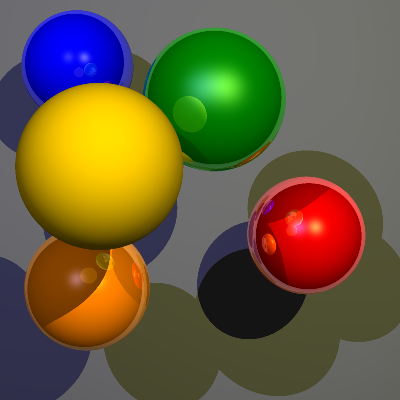
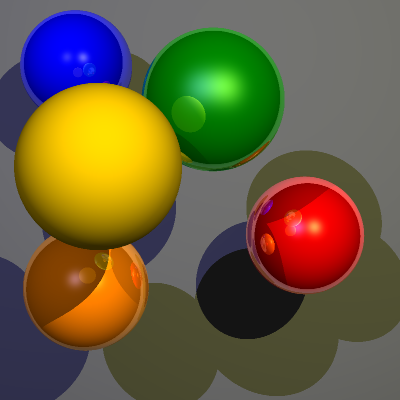
DOOONE

diff --git a/Lab 2 Raytracer/scene.cpp b/Lab 2 Raytracer/scene.cpp
@@ -204,14 +204,25 @@ void Scene::render(Image &img)
             }
         }
 	}
-
+	
+	Triple gaze = camera.getCenter() - camera.getEye();
+	
+	Triple right = gaze.cross(camera.getUpVector());
+	
+	right.normalize();
+	right *= camera.getUpVector().length();
+	
+	Point topRightCorner = camera.getCenter() + right * camera.getWidth() / 2 + camera.getUpVector() * camera.getHeight() / 2; 
+	
     for (int y = 0; y < h; y++) {
         for (int x = 0; x < w; x++) {
 			Color col;
 			for (int i = 1; i <= sqrt(ssFactor); i++){
 				for (int j = 1; j <= sqrt(ssFactor); j++) {
 					
-					Point pixel(x+ i/(sqrt(ssFactor) + 1), h-1-y+ j/(sqrt(ssFactor) + 1), 0);
+					Point p(w - (x+ i/(sqrt(ssFactor)) + 1), h - (h-1-y+ j/(sqrt(ssFactor) + 1)), 0);
+					Point pixel = topRightCorner - camera.getUpVector().length() *p;		
+					
 					Ray ray(camera.getEye(), (pixel-camera.getEye()).normalized());
 
 					if (renderMode == 0) // Phong - this is the default render mode

diff --git a/Lab 2 Raytracer/raytracer.cpp b/Lab 2 Raytracer/raytracer.cpp
@@ -113,15 +113,12 @@ Camera parseCamera(const YAML::Node& node){
 	Camera cam;
 	Triple t;
 	
-	cout << "Eye" << endl;
 	node["eye"] >> t;
 	cam.setEye(t);
 	
-	cout << "Center" << endl;
 	node["center"] >> t;
 	cam.setCenter(t);
 	
-	cout << "Up" << endl;
 	node["up"] >> t;
 	cam.setUpVector(t);
 	
@@ -133,7 +130,6 @@ Camera parseCamera(const YAML::Node& node){
 	node["viewSize"][1] >> y;
 	cam.setHeight(y);
 	
-	cout << "Done" << endl;
 	return cam;
 }
 
